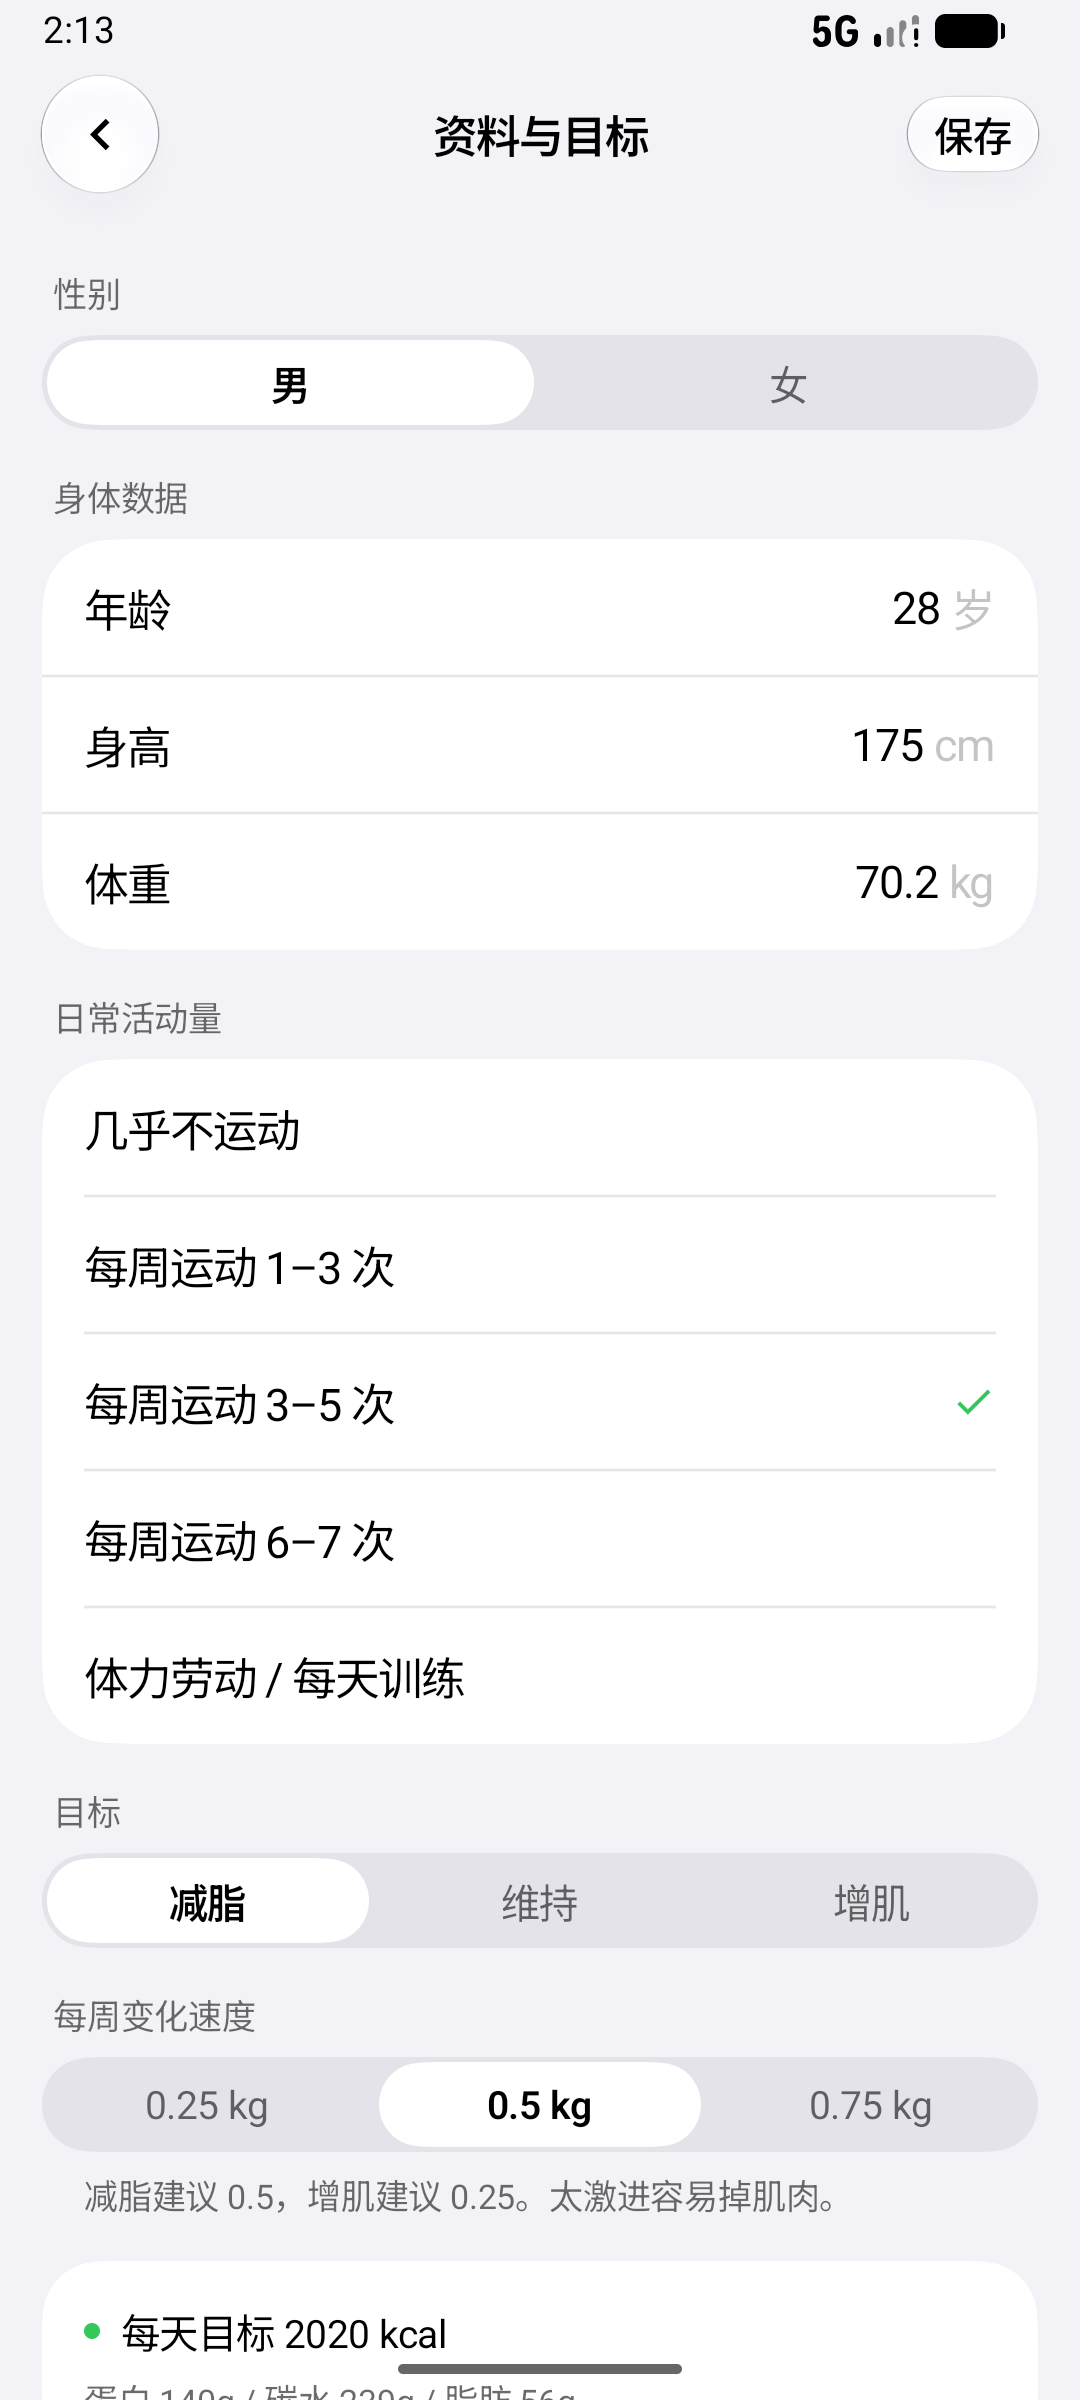
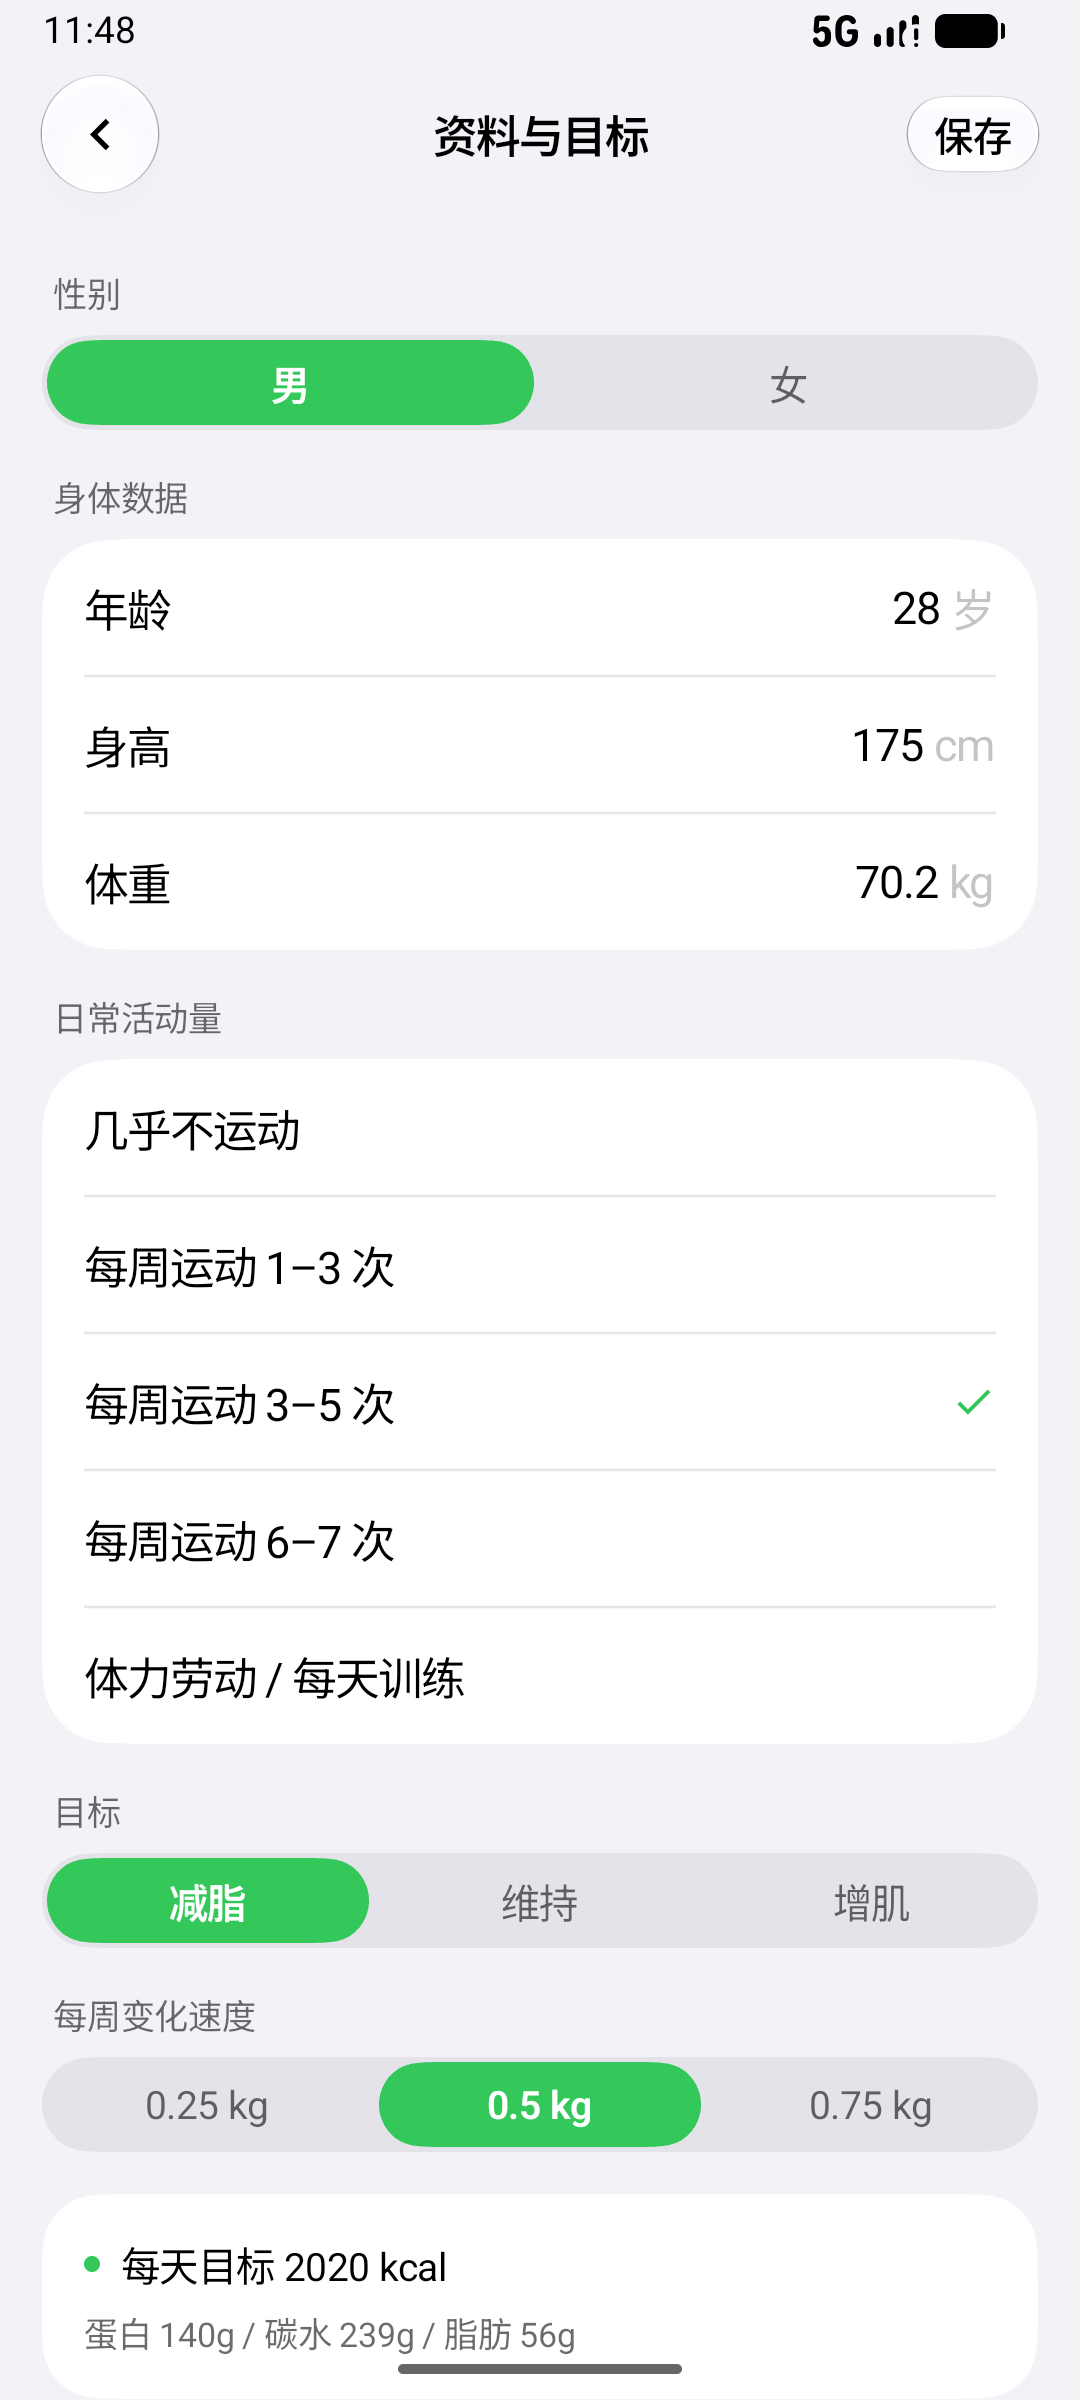
分段控件选中态改成品牌绿，精简食物编辑页提示，食物库补顶栏模糊
- SegmentedRow 选中块由浅灰改成品牌绿（白字），和主按钮/环形图/勾选统一
- 编辑食物页：删除克数说明、底部说明、删除按钮下的说明，只保留校验错误
- 记录页页脚说明一并清理
- 食物库顶栏补上紧凑页面名 + 新建按钮：顶栏有内容后玻璃面才成立，
  列表上滑时和今日一样有渐进模糊
- 截图同步

diff --git a/app/src/main/java/com/fitlog/app/ui/sheets/FoodSheets.kt b/app/src/main/java/com/fitlog/app/ui/sheets/FoodSheets.kt
@@ -395,14 +395,12 @@ fun FoodFormSheet(
                                 keyboardType = KeyboardType.Decimal,
                             )
                         }
-                        IosGroupFooter(
-                            when {
-                                gramError -> "这一份多少克要填上，营养表就是按它折算的。"
-                                form.per100 -> "营养表上的「每 100 克」乘上这里的克数再除以 100，就是一份的营养。"
-                                else -> "按「份」记录比按克省事，克数只是备注。"
-                            },
-                            color = if (gramError) colors.destructive else Color.Unspecified,
-                        )
+                        if (gramError) {
+                            IosGroupFooter(
+                                "这一份多少克要填上，营养表就是按它折算的。",
+                                color = colors.destructive,
+                            )
+                        }
                     }
                 }
 
@@ -476,9 +474,6 @@ fun FoodFormSheet(
                         if (form.per100) {
                             Spacer(Modifier.height(10.dp))
                             NutritionPreviewCard(form = form, serving = serving, gram = gram)
-                            IosGroupFooter("能量照营养表填 kJ（1 kcal ≈ 4.184 kJ），只能填能量也能保存。")
-                        } else {
-                            IosGroupFooter("按 1$unitLabel 算，能量单位和营养表一致，只填能量也能保存。")
                         }
                     }
                 }
@@ -495,7 +490,6 @@ fun FoodFormSheet(
                                     onClick = { confirmDelete = true },
                                 )
                             }
-                            IosGroupFooter("已经记下的历史不会受影响。")
                         }
                     }
                 }

diff --git a/app/src/main/java/com/fitlog/app/ui/components/IosPrimitives.kt b/app/src/main/java/com/fitlog/app/ui/components/IosPrimitives.kt
@@ -328,7 +328,8 @@ fun SegmentedRow(
                 .width(itemWidth - 4.dp)
                 .fillMaxHeight()
                 .clip(Capsule())
-                .background(colors.elevatedBackground),
+                // 选中块用品牌绿：和主按钮、环形图、勾选同一套强调色
+                .background(colors.accent),
         )
         Row(Modifier.fillMaxSize()) {
             options.forEach { (value, label) ->
@@ -345,7 +346,7 @@ fun SegmentedRow(
                         label,
                         style = IosTypography.subheadline,
                         fontWeight = if (active) FontWeight(600) else FontWeight(400),
-                        color = if (active) colors.content else colors.secondaryContent,
+                        color = if (active) FitPalette.onAccent(colors.isDark) else colors.secondaryContent,
                         maxLines = 1,
                     )
                 }

diff --git a/app/src/main/java/com/fitlog/app/ui/sheets/ProfileSheet.kt b/app/src/main/java/com/fitlog/app/ui/sheets/ProfileSheet.kt
@@ -210,8 +210,7 @@ fun ProfileSheet(
                             selected = rateText(rate),
                             onSelect = { v -> rate = v.toDoubleOrNull() ?: 0.5 },
                         )
-                        IosGroupFooter("减脂建议 0.5，增肌建议 0.25。太激进容易掉肌肉。")
-                    }
+                            }
                 }
 
                 item(key = "preview") {

diff --git a/app/src/main/java/com/fitlog/app/ui/screens/LibraryScreen.kt b/app/src/main/java/com/fitlog/app/ui/screens/LibraryScreen.kt
@@ -74,7 +74,8 @@ fun LibraryScreen(
         )
 
     GlasmioPinnedListPage(
-        title = "",
+        // 紧凑顶栏保留页面名：有了顶栏的玻璃面，列表上滑时才有东西可采样、能看出模糊
+        title = "食物库",
         listState = listState,
         bottomPadding = bottomPadding,
         showsLargeTitle = false,

diff --git a/README.md b/README.md
@@ -382,7 +382,7 @@ AGP 9.0 起内置 Kotlin 支持，**不再需要** `org.jetbrains.kotlin.android
 |---|---|
 | 首次启动 | 自动打开「资料与目标」二级页面；取消后不再反复弹 |
 | 四个 Tab | 今日 / 食物库 / 统计 / 我的 都能切，选中胶囊和页面一致 |
-| 紧凑顶栏 | 四个标签页都没有大标题/副标题/页脚；今日页顶栏只留日期和前后一天，内容滚到下面时顶栏渐进模糊 |
+| 紧凑顶栏 | 四个标签页都没有大标题/副标题/页脚；今日页顶栏只留日期 + 前后一天，食物库顶栏留紧凑页面名 + 新建按钮（顶栏得有内容，玻璃面才能采样、上滑才看得出模糊） |
 | 底栏收缩 | 滚动 64dp 后收成左下角小圆，点一下展开 |
 | 选择食物 → 记录 | 步进到「已选 1 份 · 约 104 kcal」，入账后今日页晚餐多出一条 |
 | 今日概览 | 环在左、四组数值在右：热量 649/2020 千卡、蛋白 24.3/140 克、碳水 112/239 克、脂肪 12.1/56 克；超标时对应那一项的数值和环一起转红 |
@@ -395,6 +395,7 @@ AGP 9.0 起内置 Kotlin 支持，**不再需要** `org.jetbrains.kotlin.android
 | 二级页面打开 | 同条件首帧：新建食物 350 ms（原 Dialog 弹窗 750 ms，其中 layout 467 ms）；选择食物/记录份量/批量导入/资料 全部按页面打开，含键盘弹起 |
 | 记录份量返回 | 记录份量也改成了二级页面：关掉后底栏立刻恢复，不再等弹窗窗口销毁（原来会卡一下） |
 | 营养卡片 | 记录页四项营养各一张卡（热量/蛋白/碳水/脂肪 2×2），表单分组的分隔线两端留白，不再贴着卡片圆角 |
+| 开关控件 | 分段控件的选中块从浅灰改成品牌绿（白字），和主按钮、环形图、勾选同一套强调色；编辑食物页的说明/提示文字全部删除，只留校验错误 |
 | 圆环单位 | 数值行只放「已吃/目标」，单位挪到标签行「热量（千卡）」；字体调大、窄屏都不会再把单位挤出卡片 |
 | 每周速度 | 0.25 / 0.5 / 0.75 三档都能选中并高亮（之前 0.75 因为 `trimNumber` 四舍五入成 0.8 永远选不中） |
 | 跨零点 | 挂后台跨天回来，停在「今天」时自动顺延到新的一天；手动翻到历史日期则保持不动（判断逻辑有单测） |
